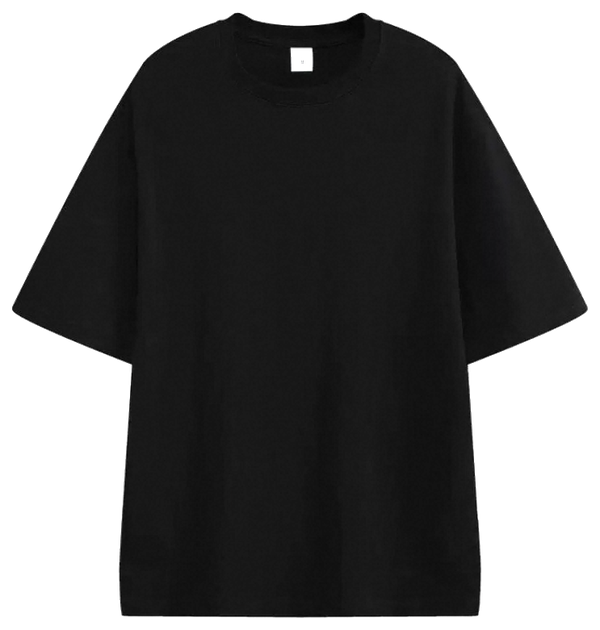
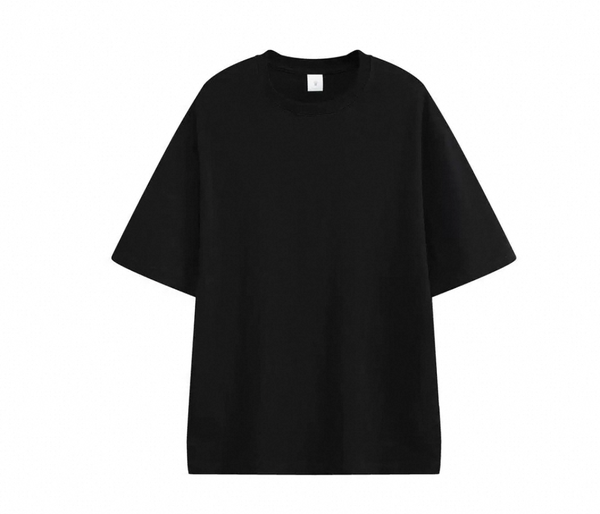
fix: 短袖版型直接用原图 + 修复编辑中文字无法切换字体

Changed region(s): [[0.0, 0.0, 0.99, 0.9961]]

diff --git a/index.html b/index.html
@@ -717,7 +717,12 @@ class DesignApp {
     sel.addEventListener('change', () => {
       const f = FONTS[+sel.value];
       const a = this.canvas.getActiveObject();
-      if (a && a.type==='i-text') { a.set('fontFamily', f.name); this.canvas.renderAll(); }
+      if (a && a.type==='i-text') {
+        if (a.isEditing) a.exitEditing();
+        a.set('fontFamily', f.name);
+        this.canvas.renderAll();
+        a.enterEditing(); a.selectAll();
+      }
     });
     // Font size
     const sr = document.getElementById('fontSizeRange'), sv = document.getElementById('fontSizeVal');
